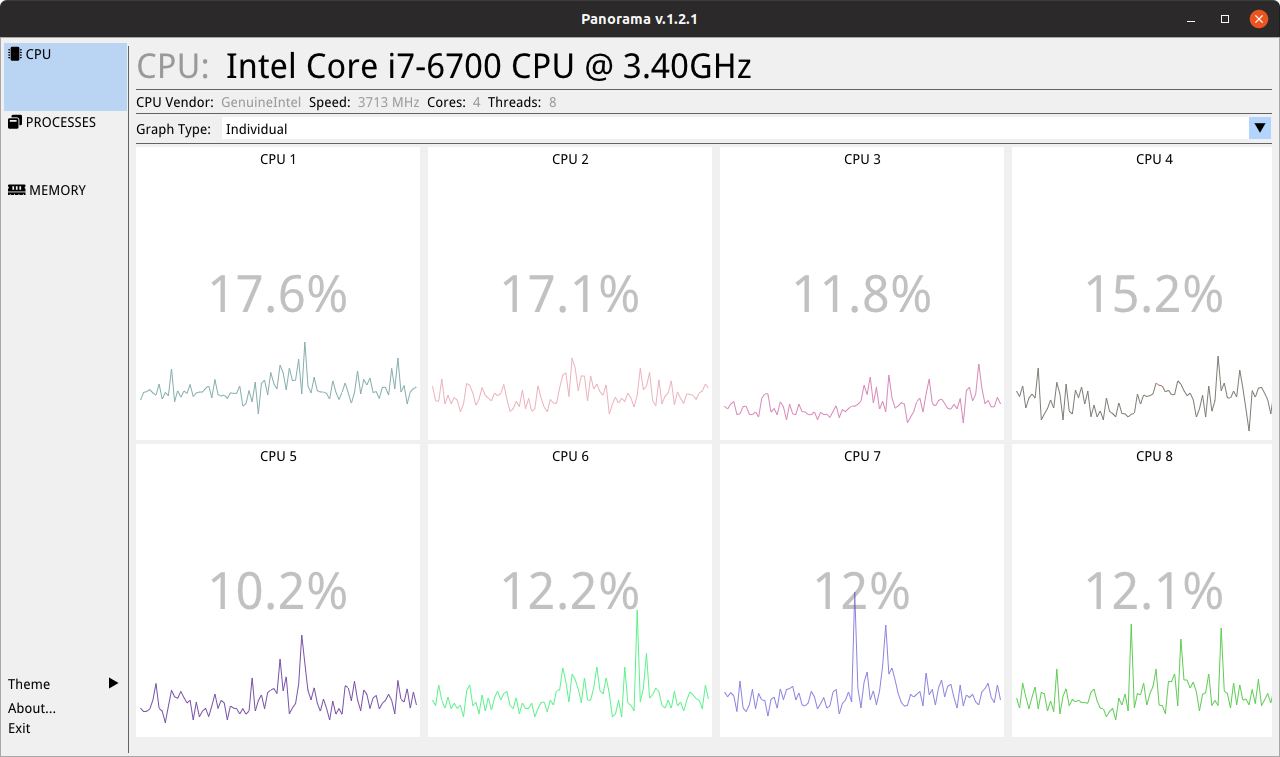
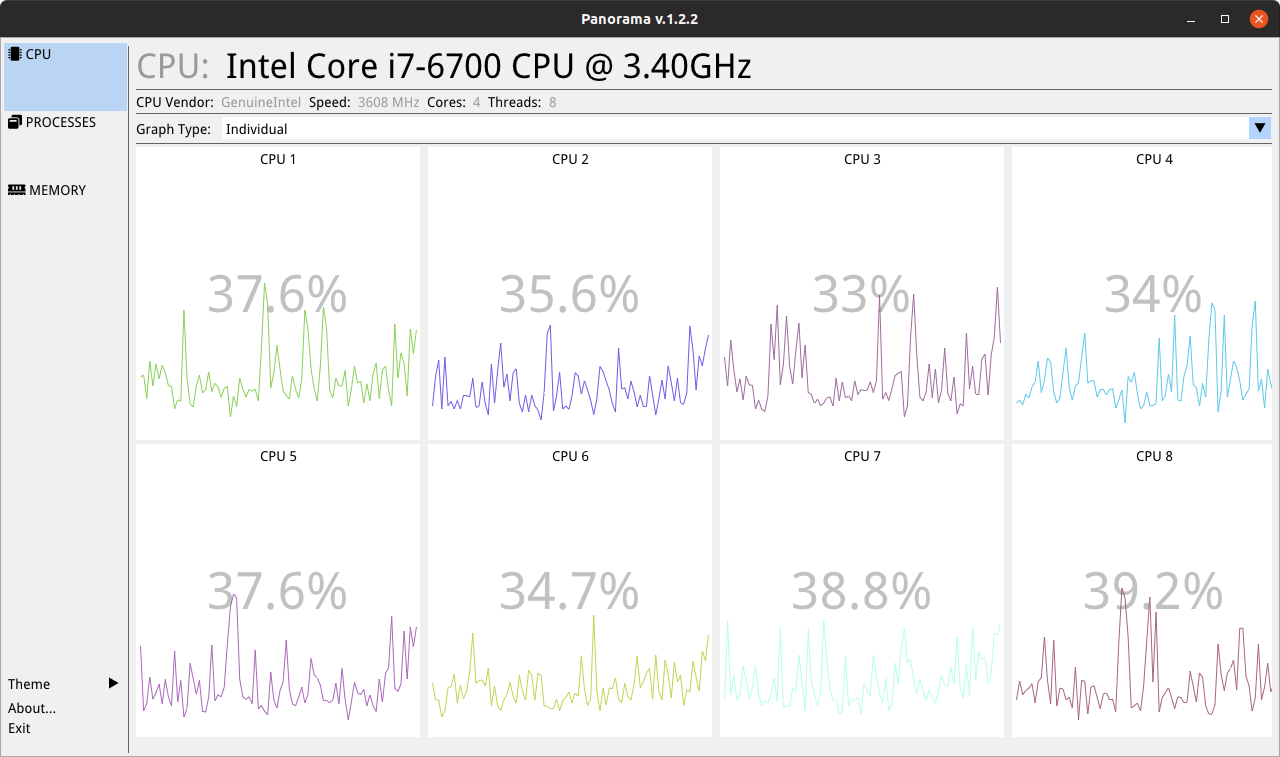
Bumped version number in README and updated screenshot.

diff --git a/README.md b/README.md
@@ -8,7 +8,7 @@
 </p>
 
 <p align="center">
-  <b>Current version: 1.2.1</b>
+  <b>Current version: 1.2.2</b>
 </p>
 
 [![Snap Status](https://build.snapcraft.io/badge/ronen25/panorama.svg)](https://build.snapcraft.io/user/ronen25/panorama)
